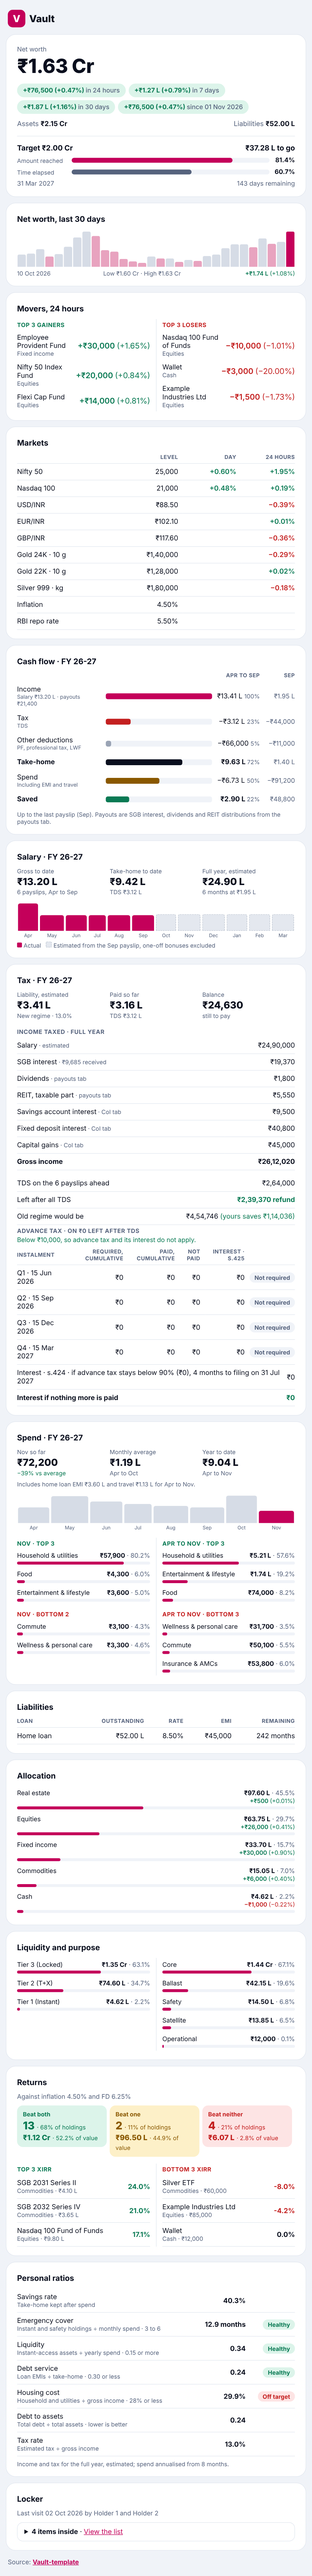
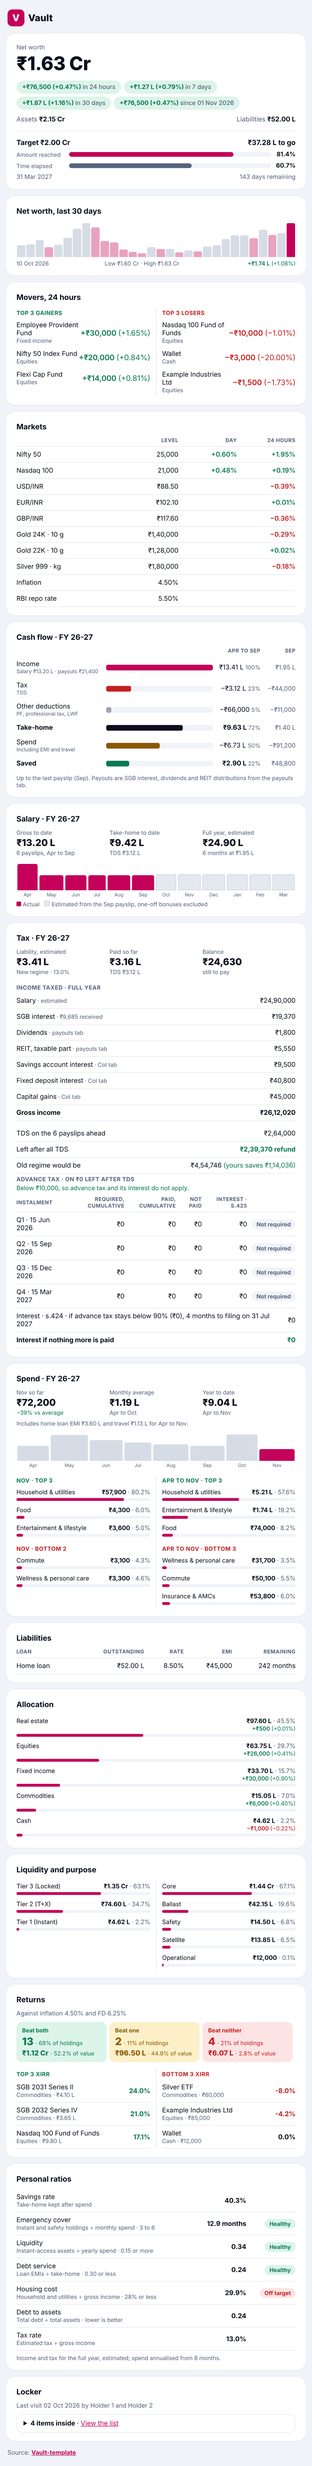
Dark theme snapshot

diff --git a/README.md b/README.md
@@ -1,9 +1,12 @@
-Vault
+Vault Snapshot
 ================
 
-A ledger in a letter. Inspired by the quiet discipline of a bank vault, Vault turns one Google Sheet into a structured email of your entire financial life, designed for those who prioritise ownership of their data, clarity over noise, and the plain sincerity of the early internet, rejecting finance-app bloat: function over form.
+A ledger in a letter. Inspired by the quiet discipline of a bank vault, Vault Snapshot turns one Google Sheet into a structured email of your entire financial life, designed for those who prioritise ownership of their data, clarity over noise, and the plain sincerity of the early internet, rejecting finance-app bloat: function over form.
 
-![Preview of the snapshot email](preview.png)
+<picture>
+  <source media="(prefers-color-scheme: dark)" srcset="preview-dark.png">
+  <img src="preview.png" alt="Preview of the snapshot email">
+</picture>
 
 Function
 --------
@@ -27,7 +30,7 @@ Form
 | `Vault-template.xlsx` | The spreadsheet to start from, filled with made-up example data |
 | `Code.gs` | The script that reads the sheet and sends the email |
 | `PROMPT.md` | A ready-made prompt for an AI assistant, if you change the sheet's layout |
-| `preview.png` | What the email looks like |
+| `preview.png`, `preview-dark.png` | What the email looks like, in light and dark |
 | `LICENSE` | GNU General Public License v3.0 |
 
 You need only a Google account. No coding and no installation.
@@ -190,4 +193,4 @@ Licence
 
 Copyright (C) 2026 Floydimus.
 
-Vault is free software: you may redistribute and/or modify it under the terms of the [GNU General Public License v3.0](https://www.gnu.org/licenses/gpl-3.0.html) as published by the Free Software Foundation. Any distributed version, modified or not, must remain open under the same licence; it can never be made closed-source or proprietary. It is distributed WITHOUT ANY WARRANTY, and it is not financial or tax advice. See the [LICENSE](LICENSE) file for the full text.
+Vault Snapshot is free software: you may redistribute and/or modify it under the terms of the [GNU General Public License v3.0](https://www.gnu.org/licenses/gpl-3.0.html) as published by the Free Software Foundation. Any distributed version, modified or not, must remain open under the same licence; it can never be made closed-source or proprietary. It is distributed WITHOUT ANY WARRANTY, and it is not financial or tax advice. See the [LICENSE](LICENSE) file for the full text.
